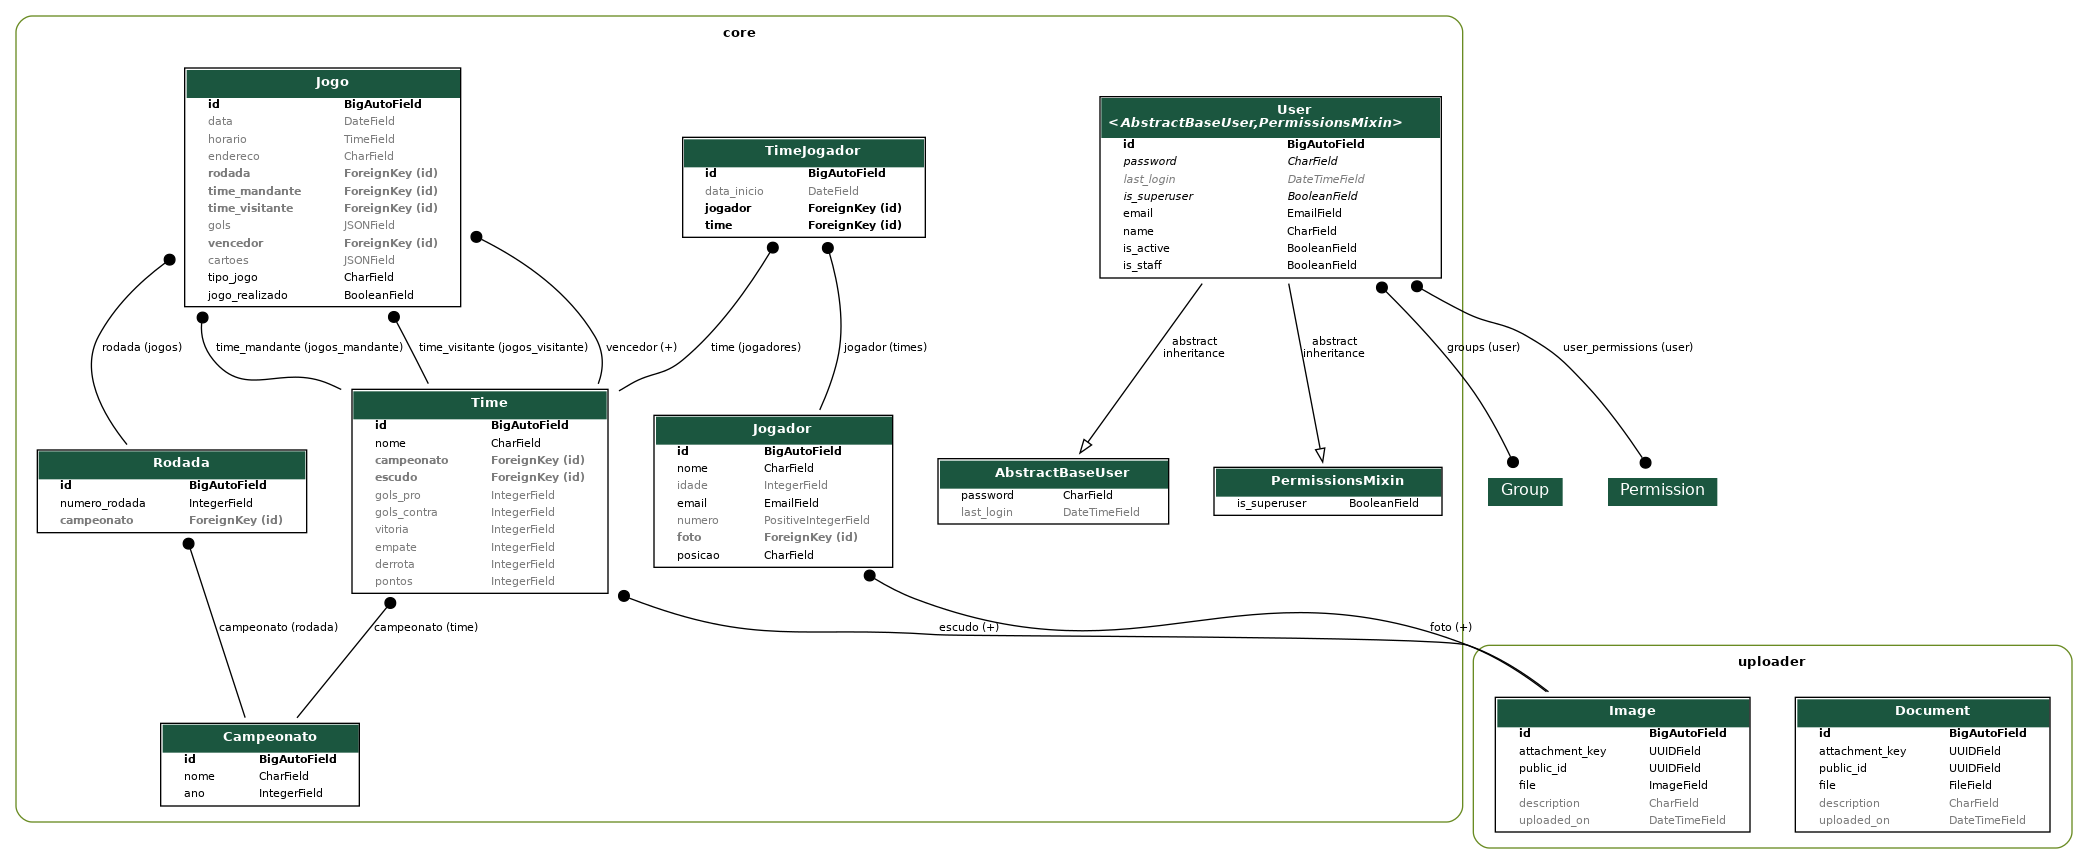
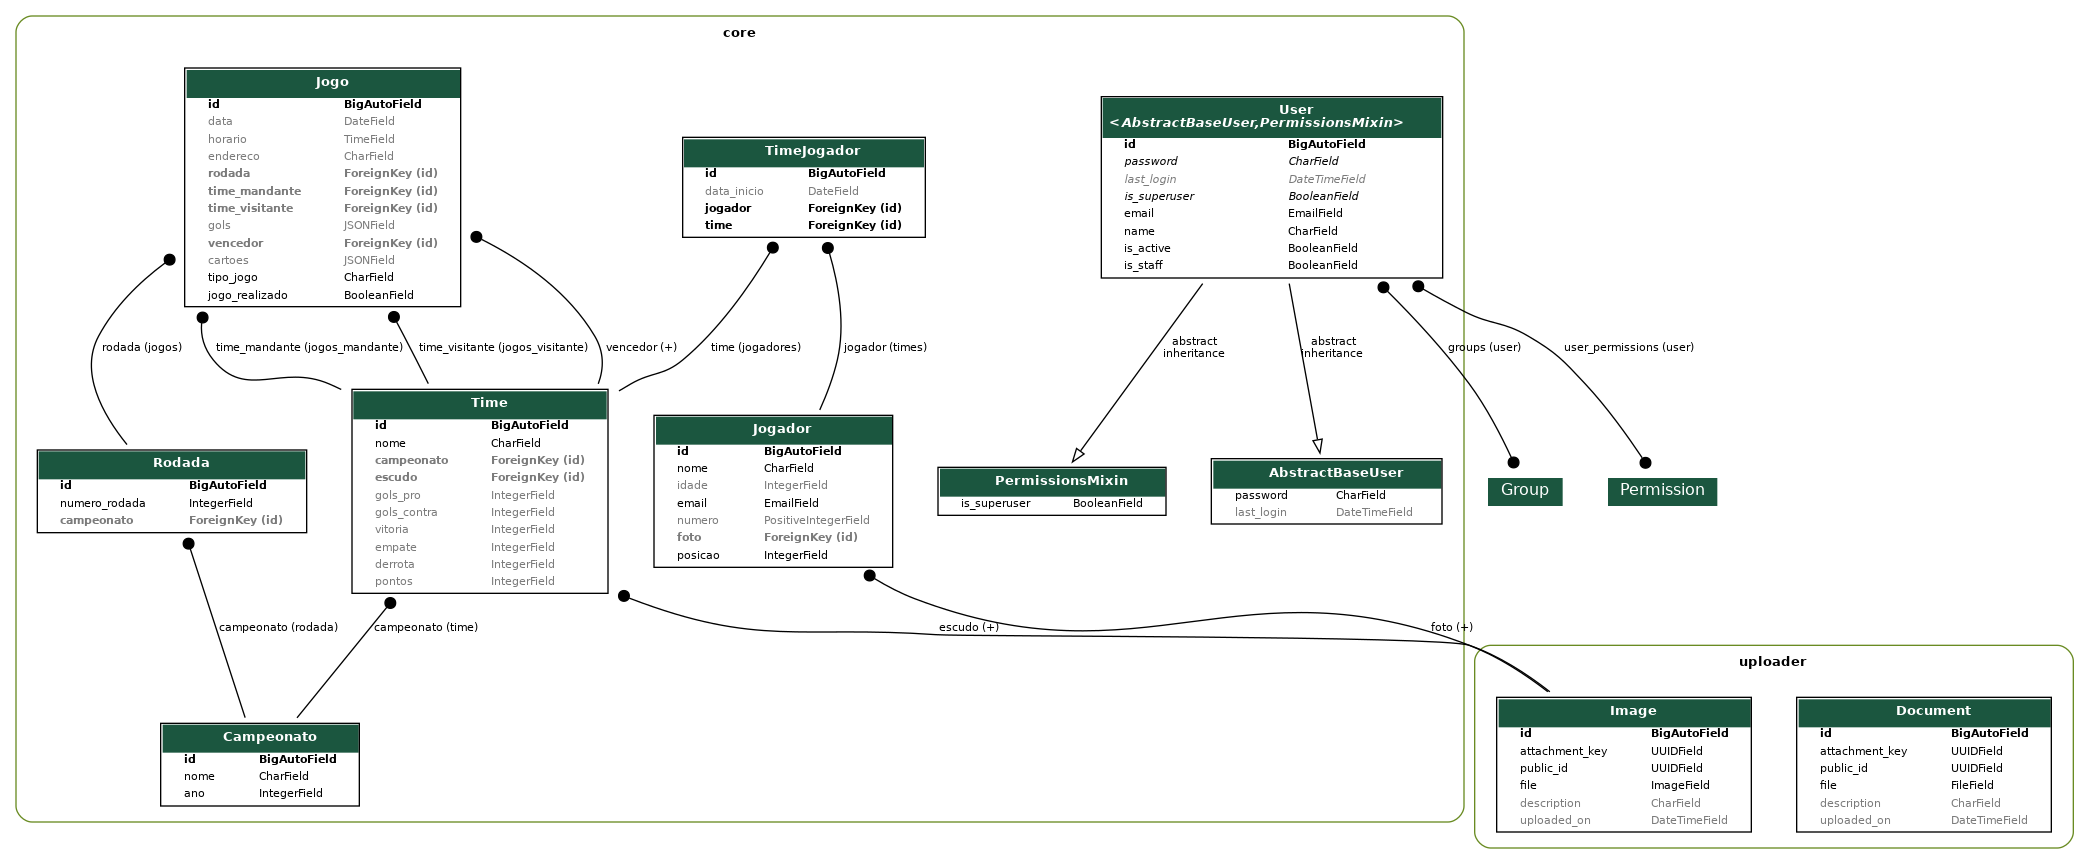
FEAT: Jogador.posicao

diff --git a/core/migrations/0002_alter_jogador_posicao.py b/core/migrations/0002_alter_jogador_posicao.py
@@ -1,0 +1,18 @@
+# Generated by Django 5.1.1 on 2024-12-17 17:24
+
+from django.db import migrations, models
+
+
+class Migration(migrations.Migration):
+
+    dependencies = [
+        ('core', '0001_initial'),
+    ]
+
+    operations = [
+        migrations.AlterField(
+            model_name='jogador',
+            name='posicao',
+            field=models.IntegerField(choices=[(1, 'Goleiro'), (2, 'Fixo'), (3, 'Ala'), (4, 'Pivo')]),
+        ),
+    ]
